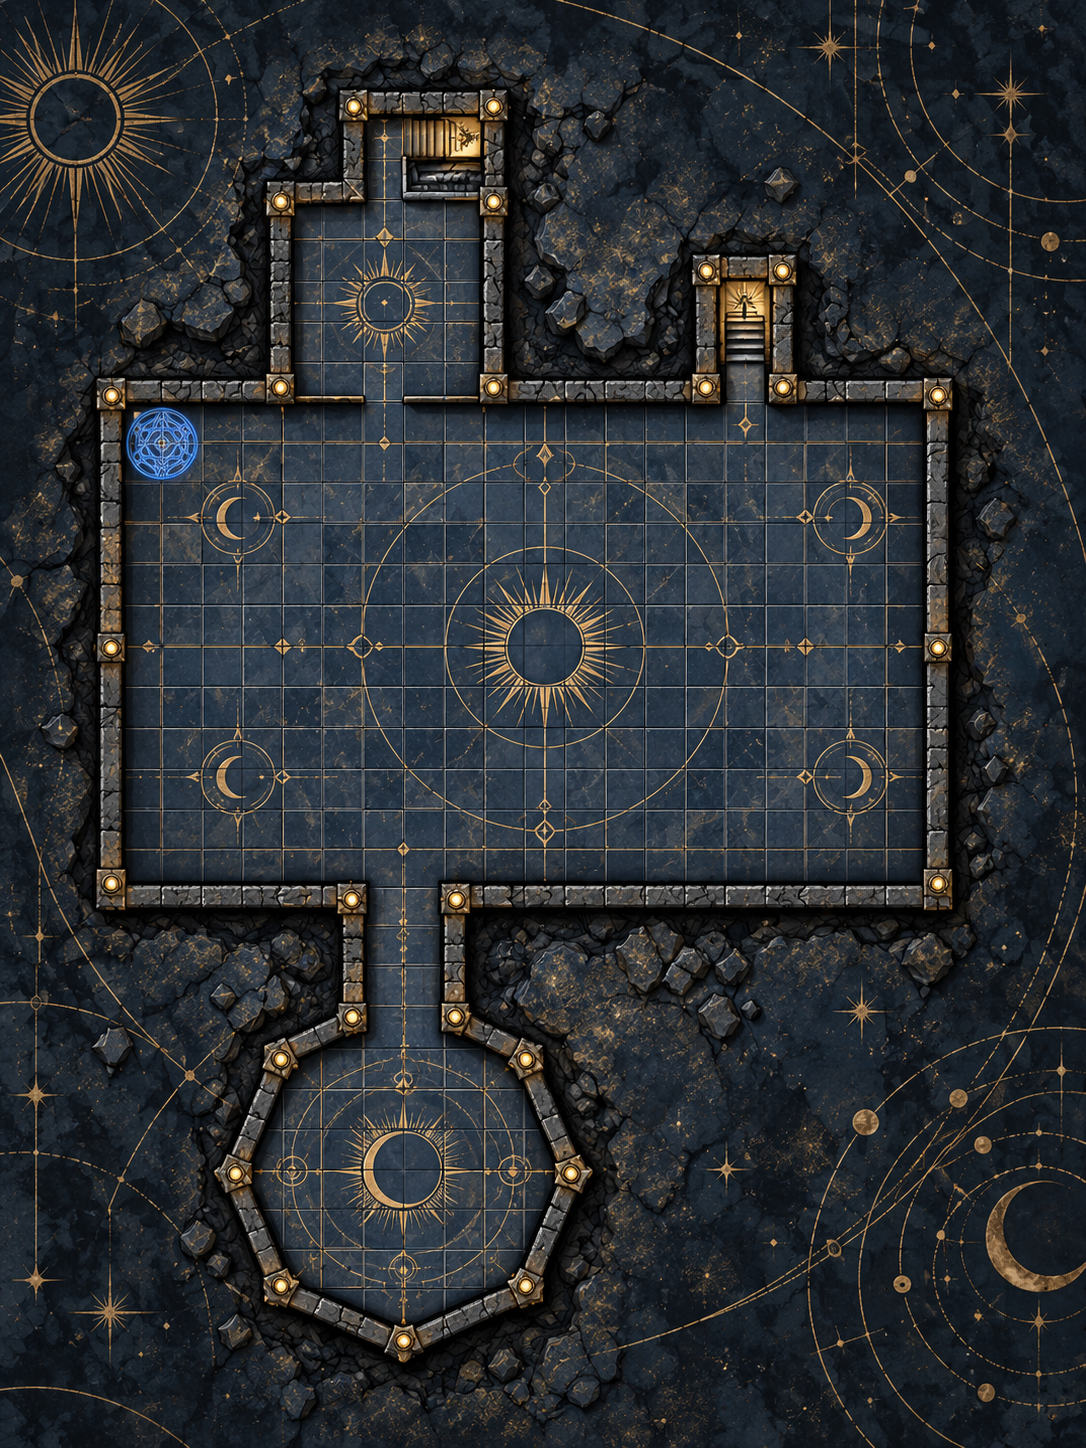
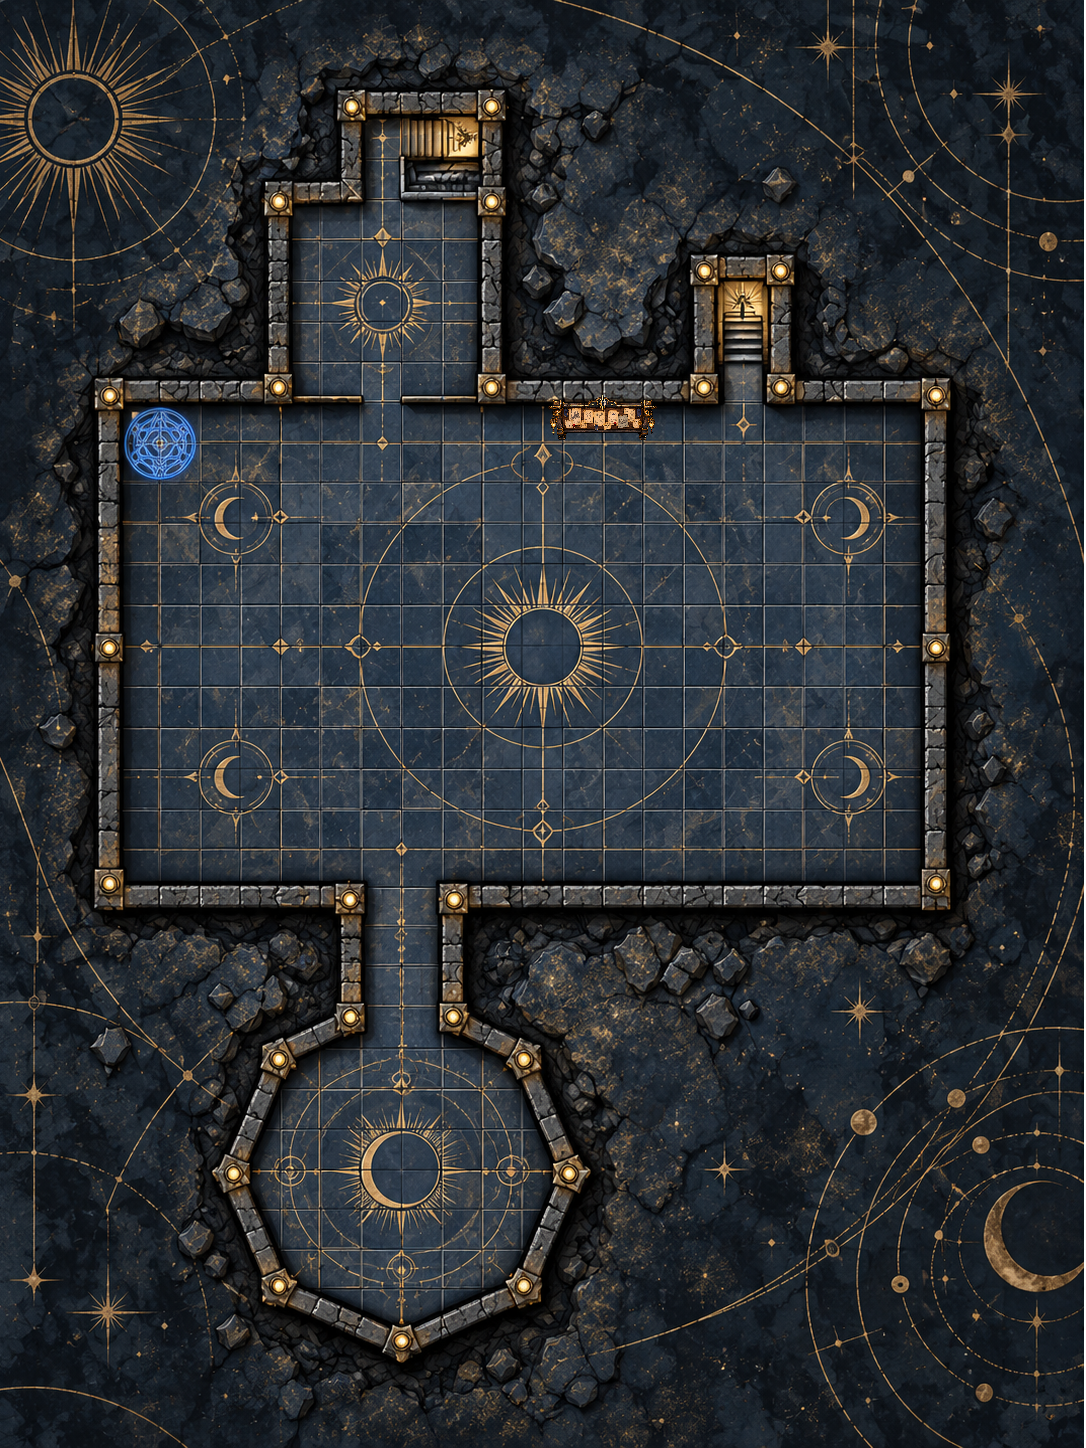
adsa

diff --git a/base/base.html b/base/base.html
@@ -317,7 +317,7 @@
                         <img
                             id="dungeon-map-image"
                             class="dungeon-map-image"
-                            src="immagini/base_map.png?v=1"
+                            src="immagini/base_map.png?v=2"
                             alt="Mappa del Livello Base"
                             draggable="false"
                         >
